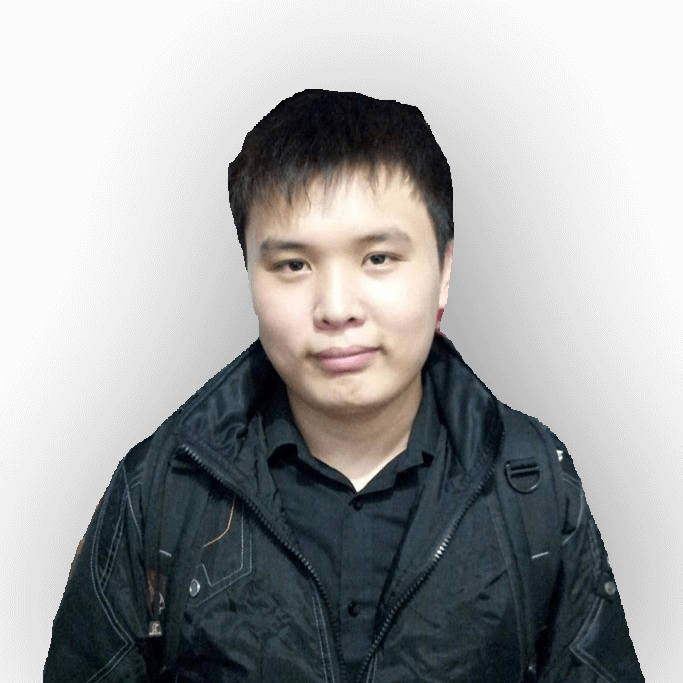
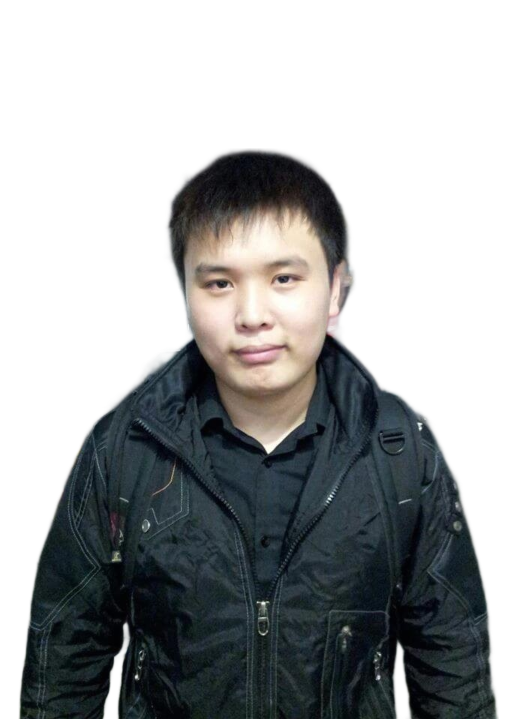
update home page images

diff --git a/src/components/Home.js b/src/components/Home.js
@@ -58,7 +58,7 @@ export default function Home(){
                   <image
                     className="home__blob-img"
                     x="12"
-                    y="2"
+                    y="-40"
                     xlinkHref="assets/images/bijian_wu.png"
                   />
                 </g>
